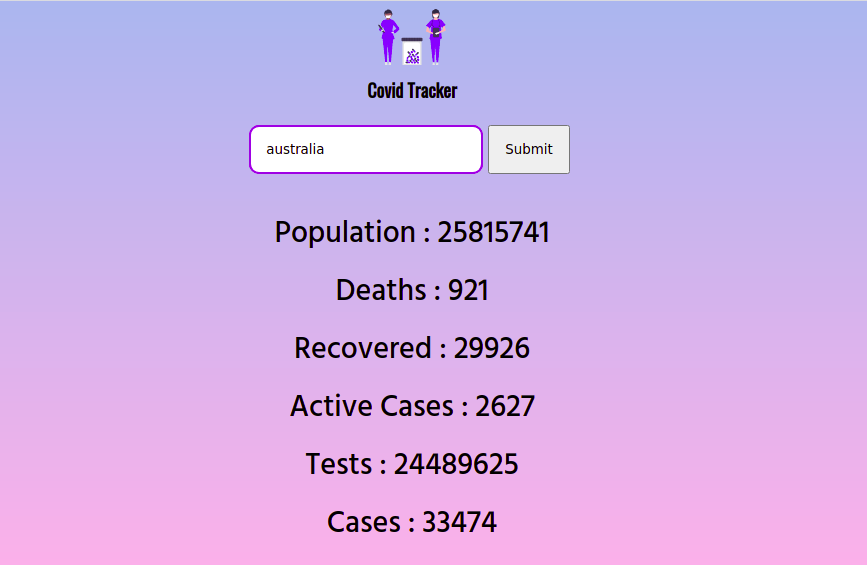
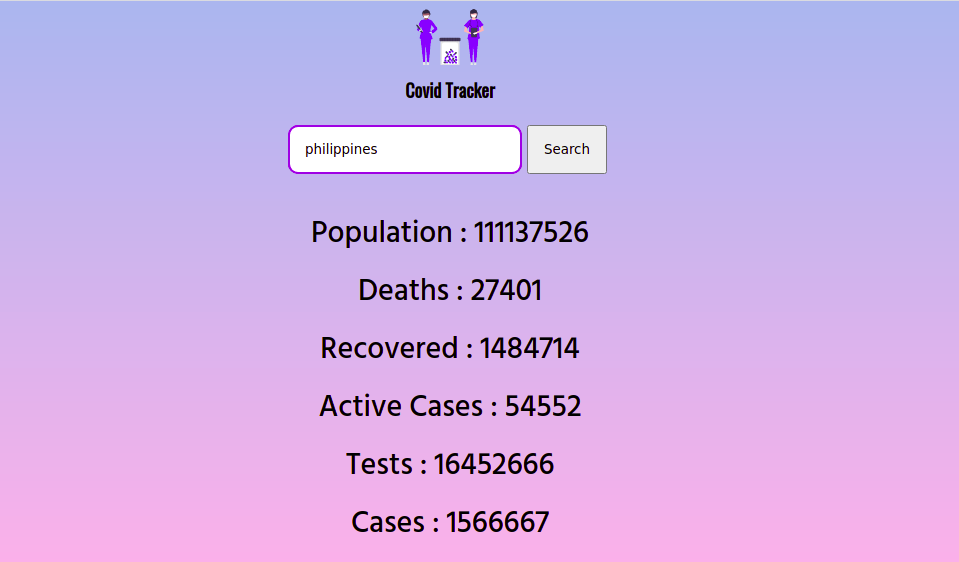
fix the bug - empty input crashes

diff --git a/src/component/Searchbox/Searchbox.jsx b/src/component/Searchbox/Searchbox.jsx
@@ -8,8 +8,8 @@ const Searchbox = (props) => {
             <form onSubmit={function(event){getDetail(event , props.getCovidData)}} action="">
                 <input onChange={(event) => props.onInputChange(event.target.value)} 
                 className="search-text" type="text" 
-                placeholder="Enter country Name" />
-                <input className="submit-btn" type="submit" />
+                placeholder="Enter country Name" required />
+                <input className="submit-btn" type="submit" value="Search" />
             </form>
         </div>
     )

diff --git a/src/component/Results/Result.jsx b/src/component/Results/Result.jsx
@@ -24,9 +24,7 @@ const Result = ({results}) => {
         )
     
     }else{
-        return (
-            <div></div>
-        )
+        return null
     }
 }
 

diff --git a/README.md b/README.md
@@ -4,7 +4,7 @@
 
 # What it does ?
 
-    It show the covid statistics for a particular country as we enter it.<br/>
+    It show the covid statistics for a particular country as we enter it.
     Covid Data like - Population , Deaths , Recovered , Active Cases , Tests , Total Cases
 
 # How it does this ?
